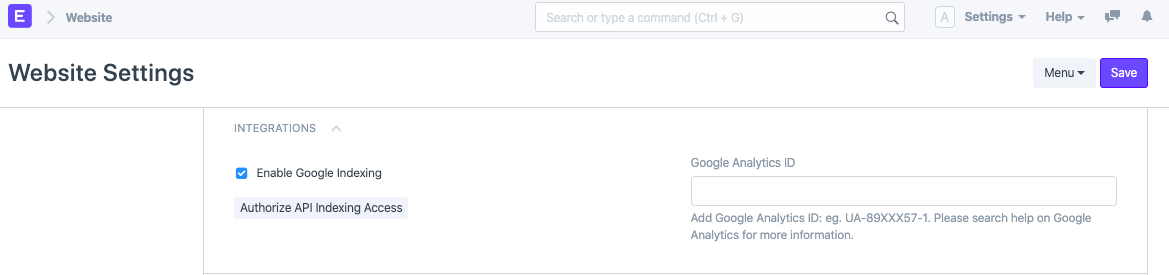
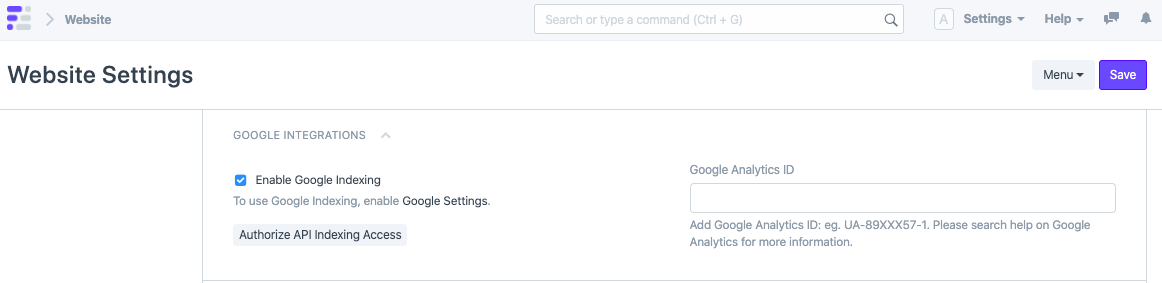
fix: update integrations section to google integrations (#754)

diff --git a/user/manual/en/website/website-settings.md b/user/manual/en/website/website-settings.md
@@ -90,7 +90,7 @@ You can add address information and categorized links to your footer in the
 ![Website Footer](/docs/assets/img/website/website-footer.png)
 *Website Footer*
 
-## 7. Integrations
+## 7. Google Integrations
 
 ### 7.1 Google Indexing
 
@@ -106,8 +106,8 @@ In order to allow ERPNext to request Google crawlers to index a web page, you ne
 
 - Once Authorized, an indexing request is automatically sent on creation/update/trash of any new blog post or web pages created via the user.
 
-![Website Integration](/docs/assets/img/website/website-settings-integrations.png)
-*Website Integration*
+![Google Integrations](/docs/assets/img/website/website-settings-integrations.png)
+*Google Integrations*
 
 ### 7.2 Google Analytics
 
